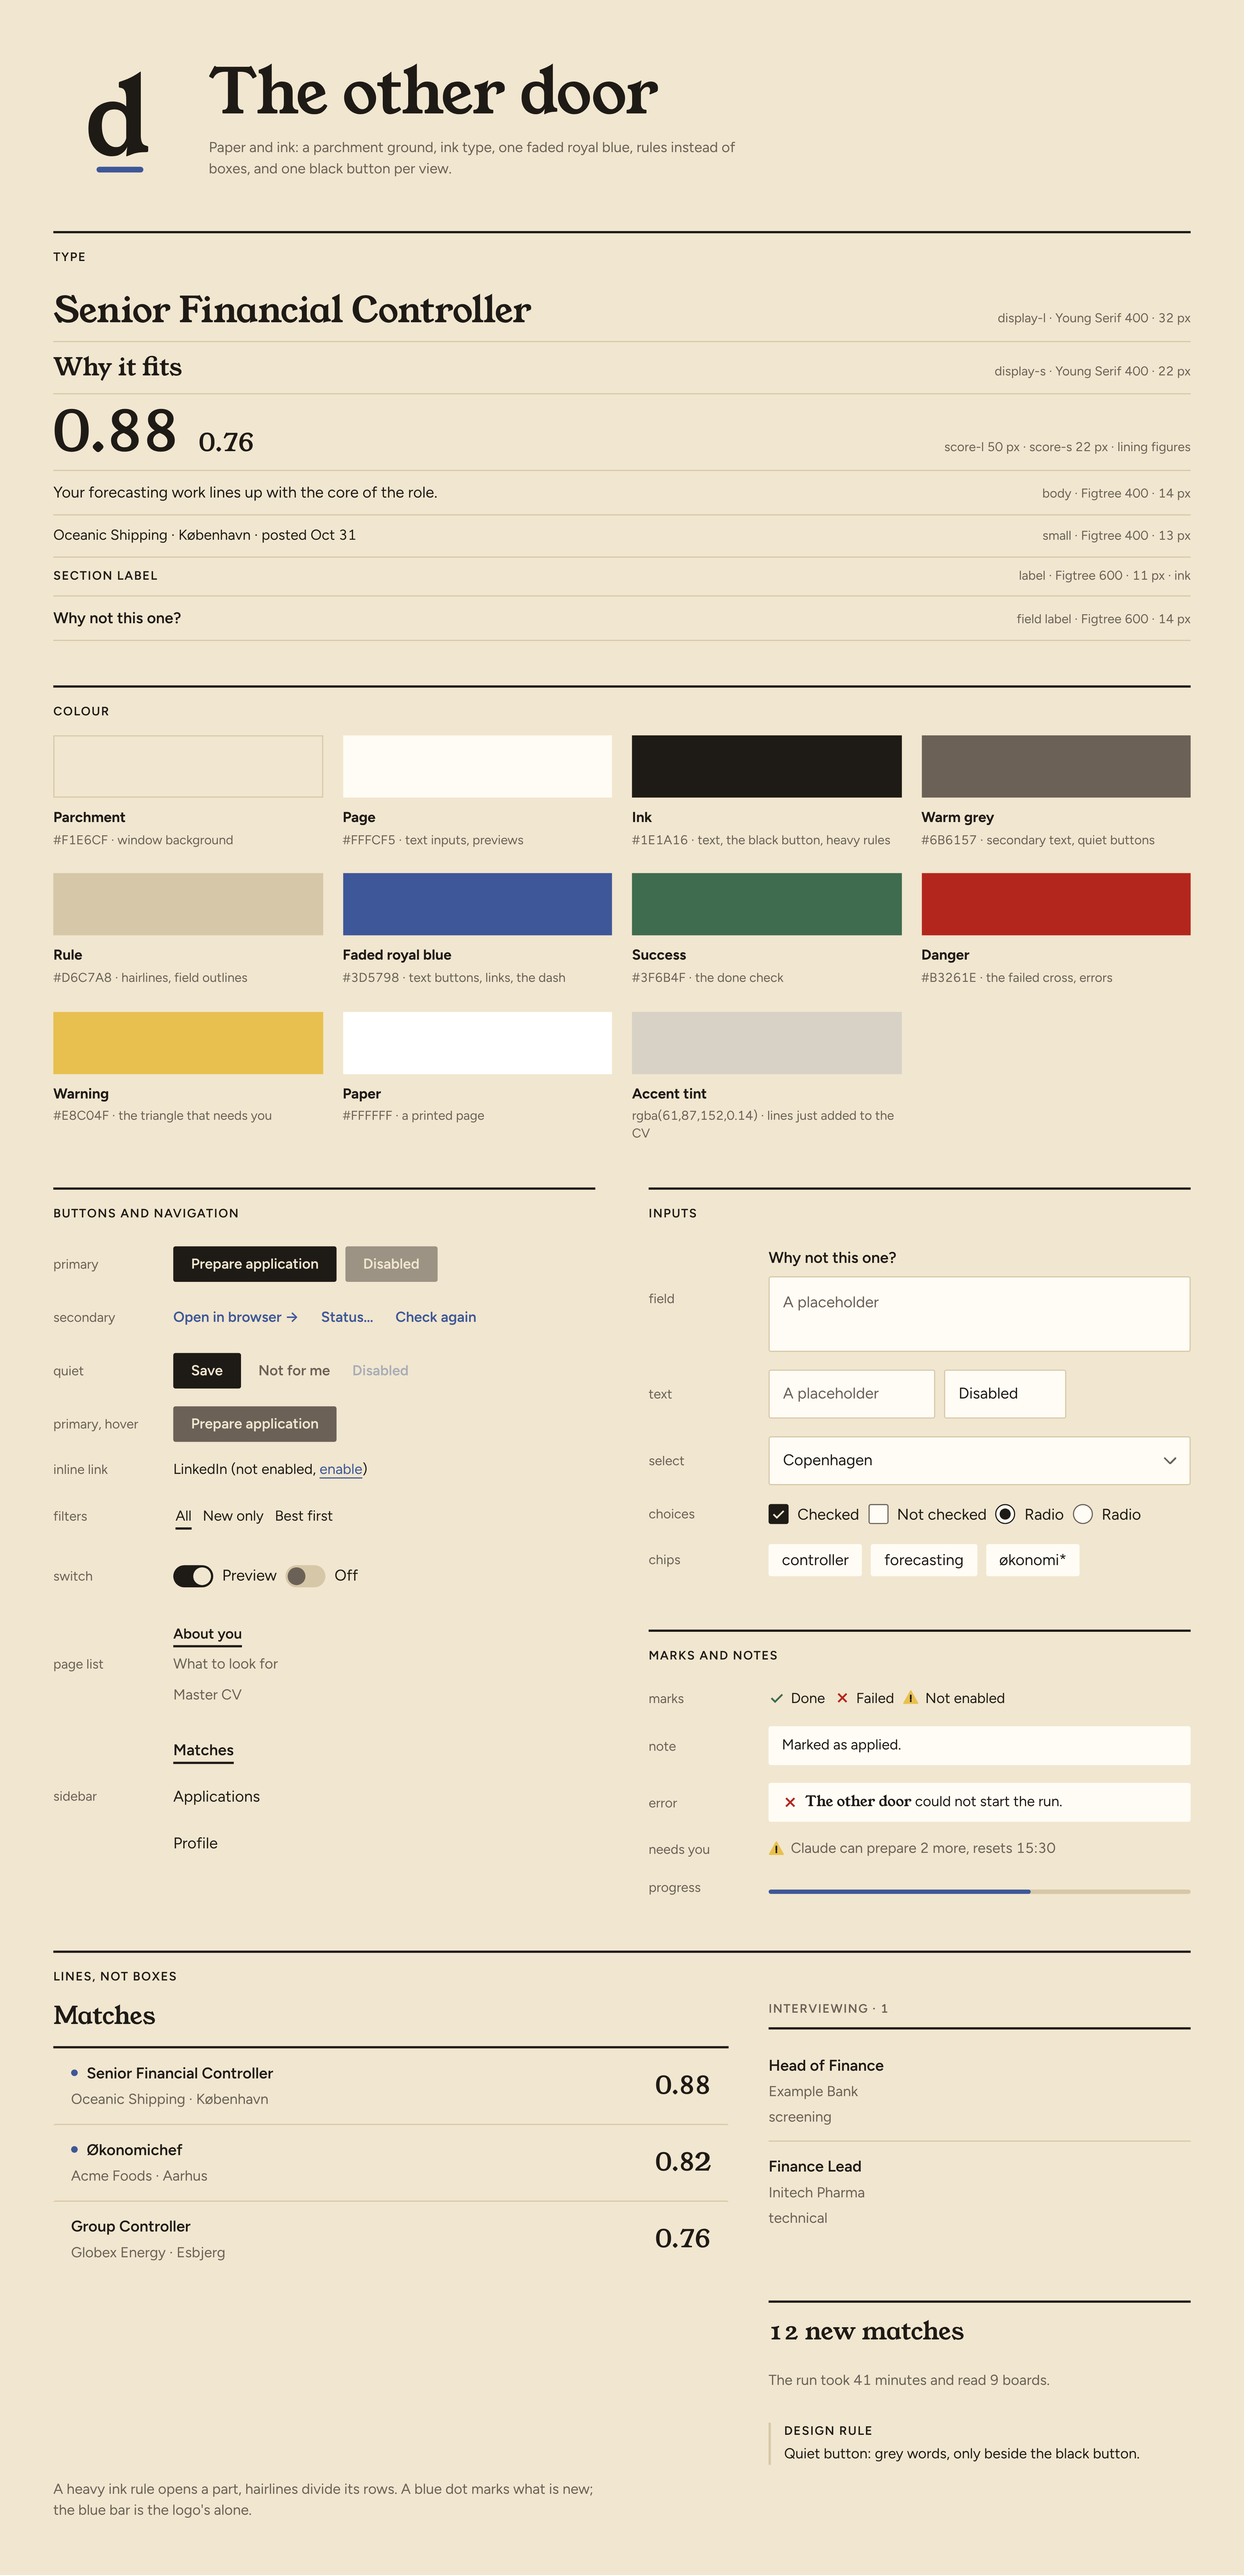
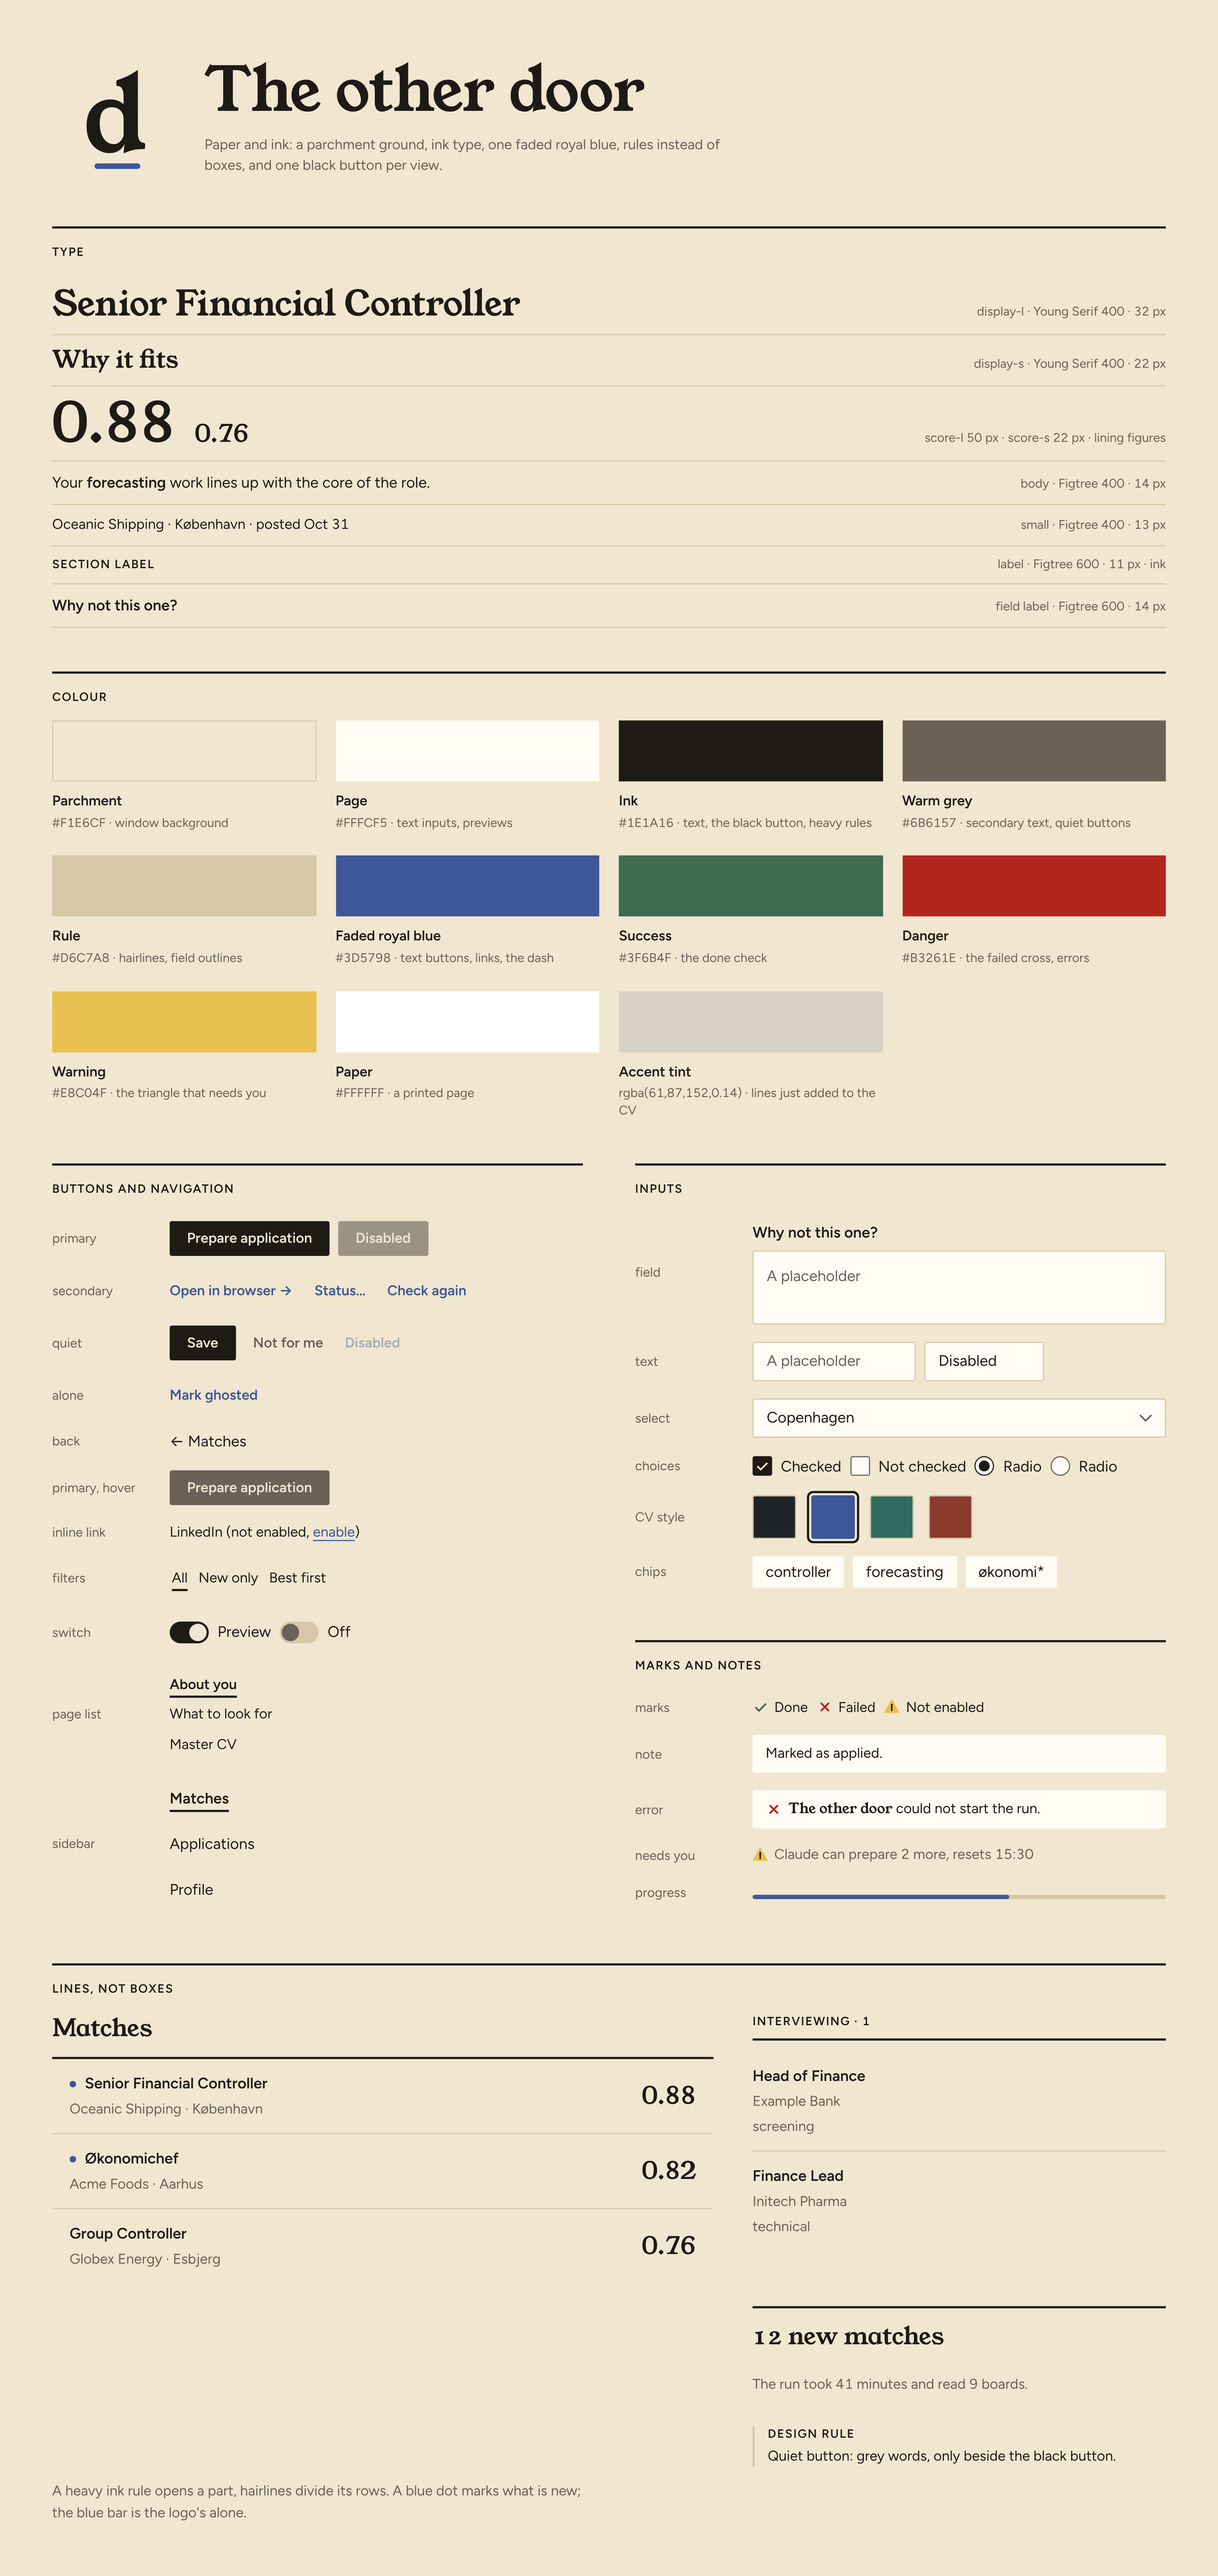
Design: the next style after a second review
Changes 11-15 in docs/design/next-style-review.md: grey means only a
quiet way out, bold is the loaded semi-bold, the label is ink, an ink
ring marks the chosen CV style, and fields are 36 px beside 32 px
buttons. Both next cards show them.

Claude-Session: https://claude.ai/code/session_01X7AZRJmbXV9ZNnZ5yp7fGB

diff --git a/docs/design/next-style-review.md b/docs/design/next-style-review.md
@@ -54,3 +54,26 @@ the original logo, no underline on quiet buttons, the faded blue `#3D5798` as th
 One black button per view; blue words for actions (5.6:1, 7.7:1 in dark); `ink-muted` (4.9:1); a box around
 text fields; success, danger and warning as marks only; the spacing scale; body 14 and small 13; the heavy
 rule with hairlines.
+
+## Second review
+
+A second independent review, on 2026-11-22, read the next style again and the app's structure as a user meets
+it. Its style findings are changes 11–15, now in `style-guide-next.png` and `style-guide-next-dark.png`; its
+structural findings are filed as issues (listed below).
+
+11. **Grey means only a quiet way out.** Eight kinds of clickable word were in use, and grey meant both a
+    quiet action and a back link or a page-list entry. Now: a quiet button only as the way out beside the black
+    button; an action standing alone ("Mark ghosted", "Lower the bar", a photo's Remove) is a blue text button;
+    the back link and the page list's entries are ink. `.link` folds into the text button or the inline link.
+12. **Bold is the loaded semi-bold.** `<strong>` had no rule and rendered at a faked 700 (the CV preview,
+    Analytics). `strong, b` take 600.
+13. **The label is ink.** Its two uses (the board's column heads, Settings' parts) overrode it to grey, against
+    its own token. The overrides go.
+14. **One mark for "chosen".** The CV style's chosen colour and font had a blue ring; it is an ink ring, as
+    blue marks nothing chosen.
+15. **One control height on desktop.** Fields and the switch were 44 px beside 32 px buttons; they are 36 px.
+    The phone keeps its own, larger sizes.
+
+Also to finish in the build: the folds of change 8 into the token file (`surface`, the three radii, `score-s`,
+`button-height`/`chip-height`, `paper-ink`/`on-warning`, weight 500, `content-max-width`), the Connections'
+"connected" mark as the small check used everywhere else, and the Matches heavy rule as wide as its list.
